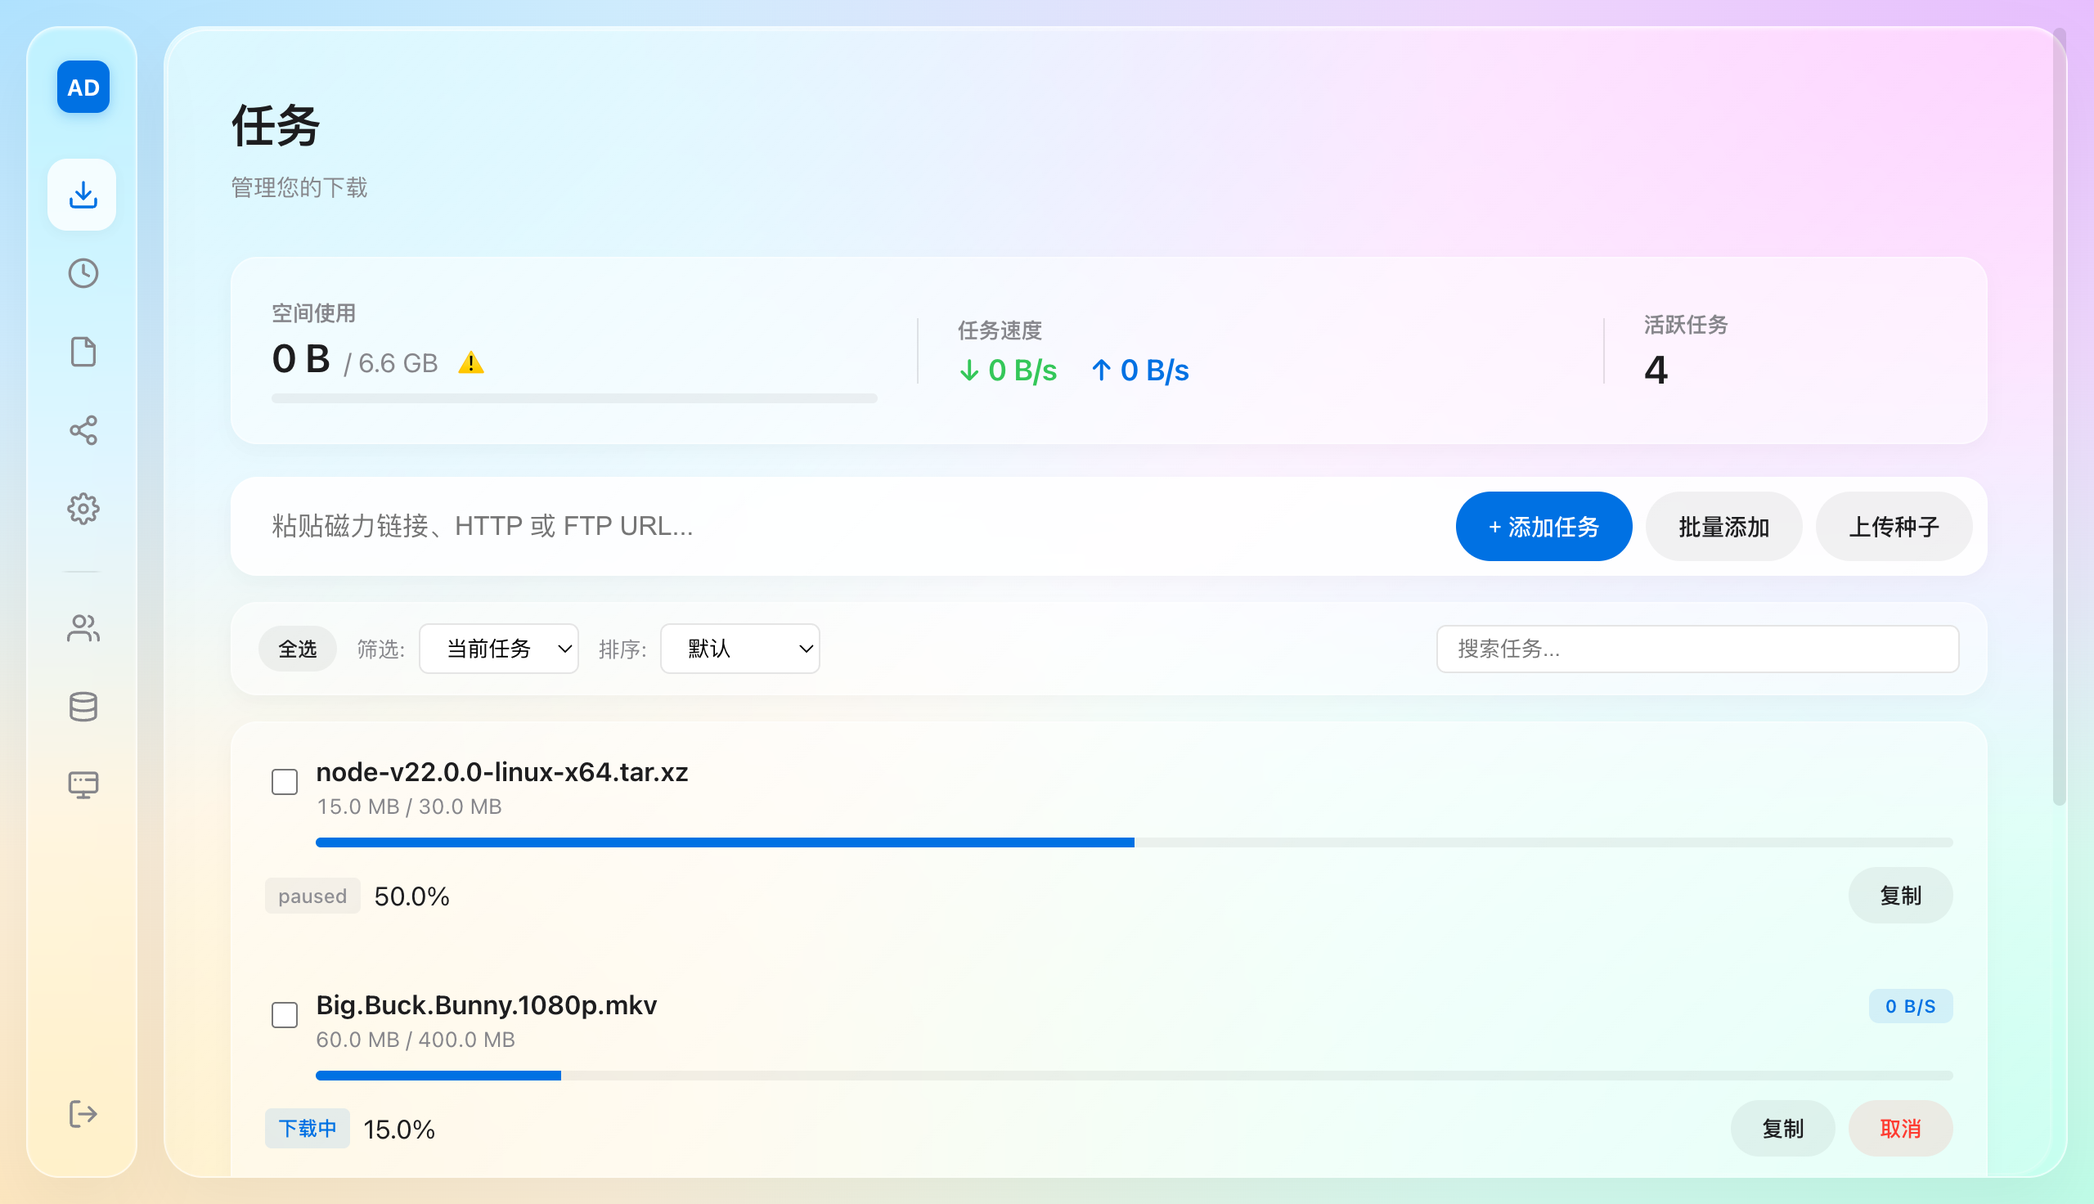
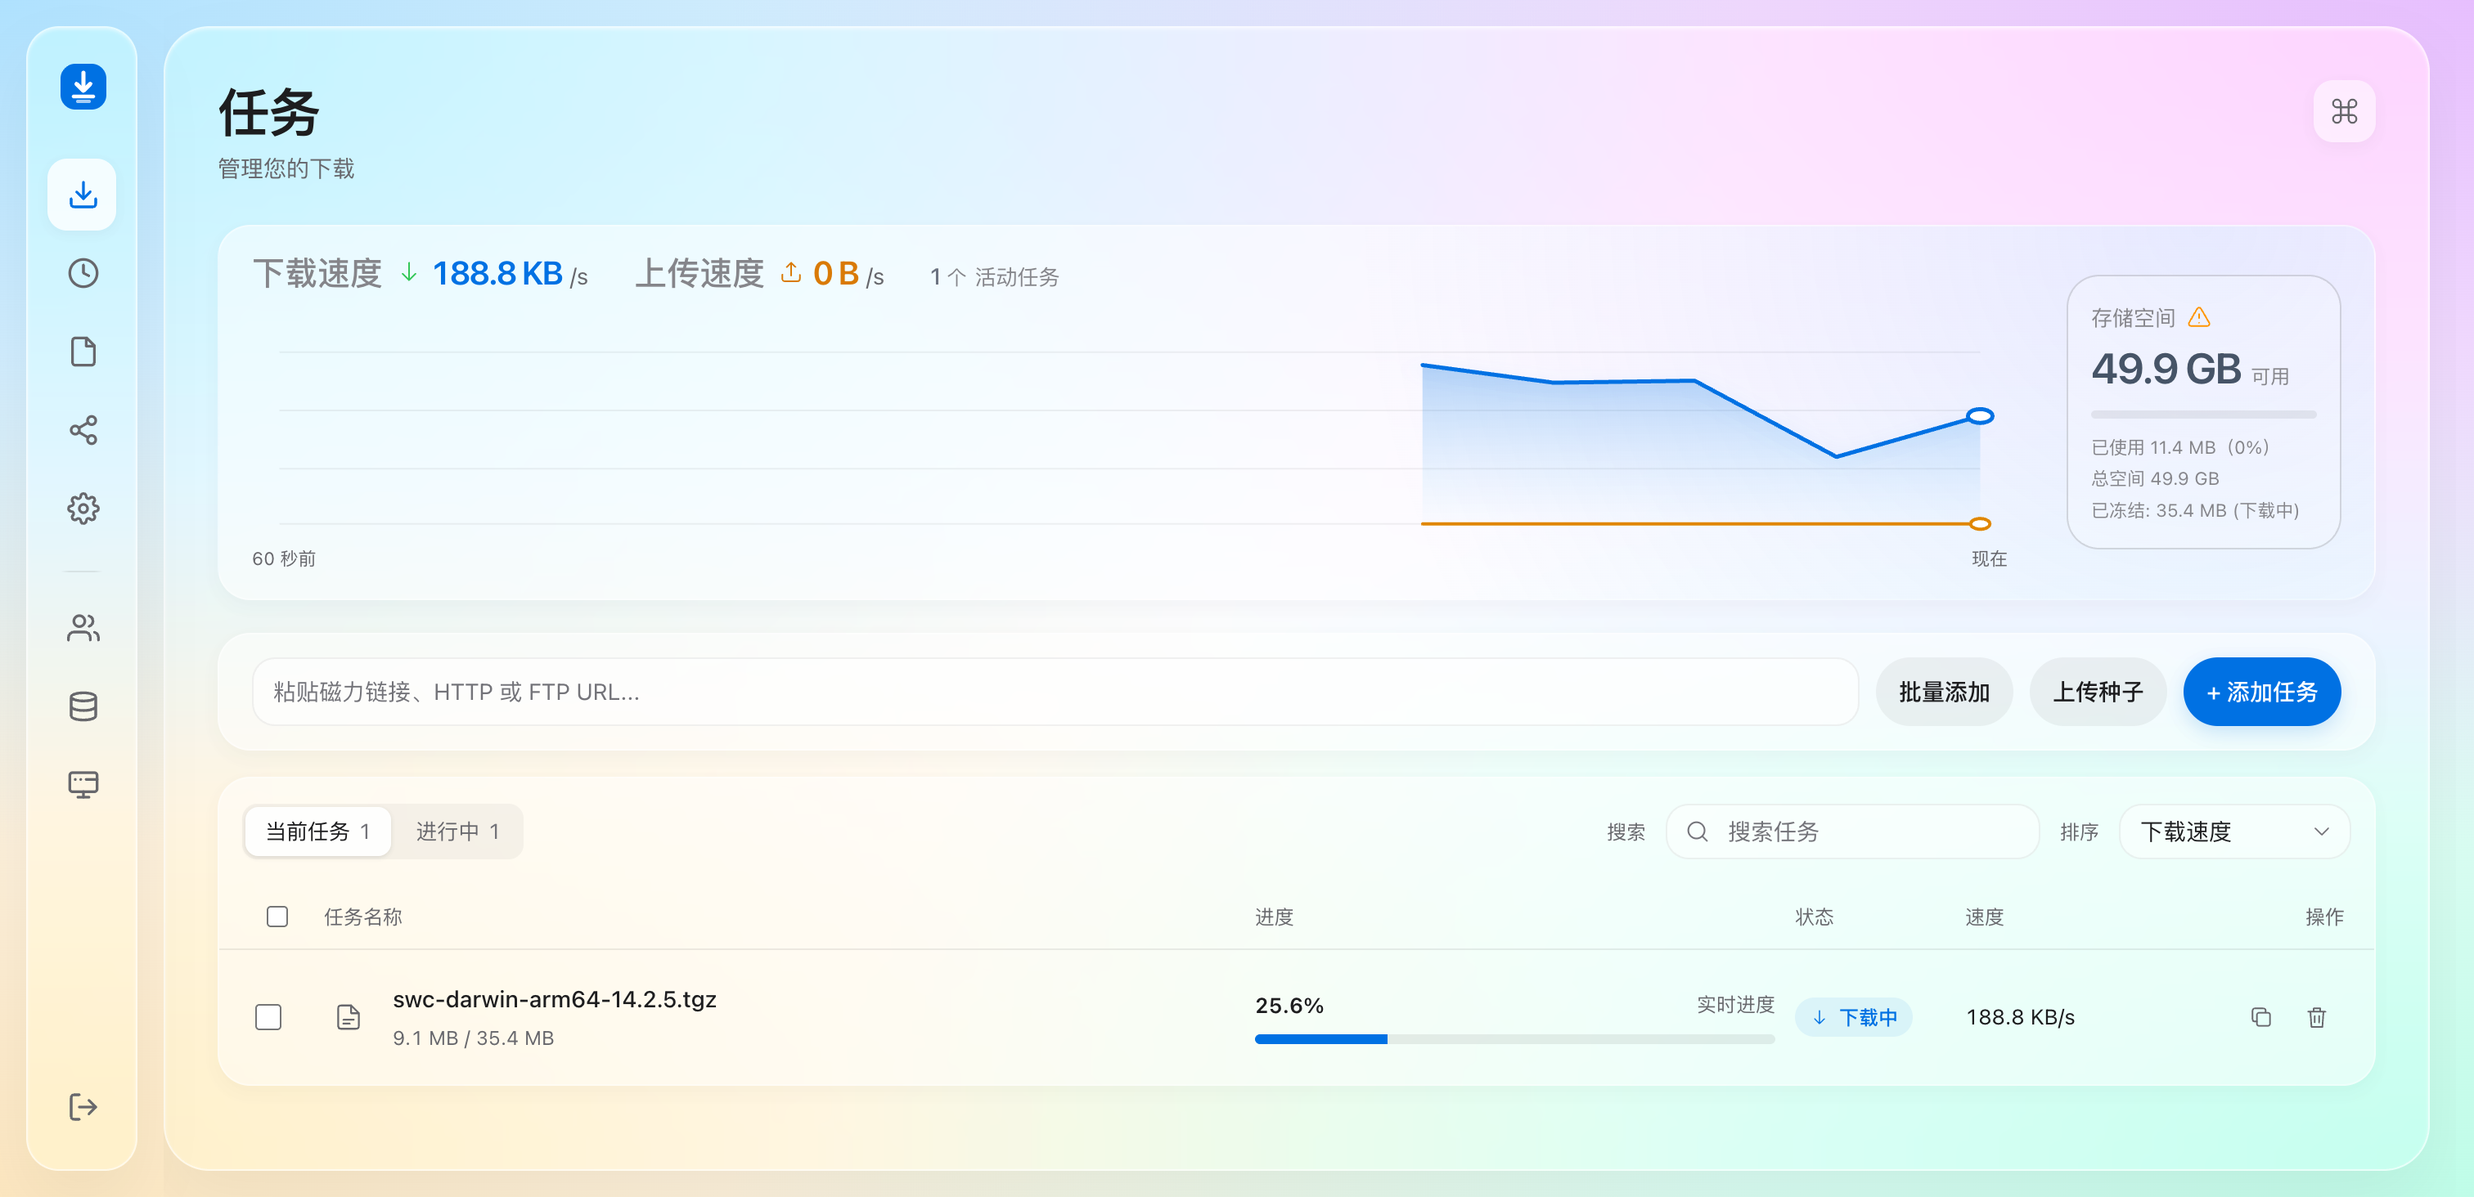
docs(readme): 更新 README 到 V2 并修正失效的配置说明
README 停留在 V1 实现，多处说明与实际代码不符，照做会起不来：
前端写作 Next.js 14 静态导出，实际是 React 18 + Vite 6；
环境变量仍写 ARIA2C_*，实际读取 ARIA2DECK_*，只有两个 RPC 跨域变量
还叫 ARIA2C_*；Compose 必需密钥只列了两个，缺
ARIA2DECK_CREDENTIAL_PEPPER，缺它会直接拒绝启动；数据库写成 app.db，
实际是 v2.db；ARIA2C_SESSION_TTL_SECONDS、ARIA2C_ARIA2_POLL_INTERVAL、
ARIA2C_DEV_RESET_ADMIN_PASSWORD 已不再被读取；本地开发的
cp backend/env.example backend/.env 目标文件也不存在。

按 backend/v2 与 frontend/v2 的实际实现重写功能亮点、技术栈、环境变量、
健康检查、数据持久化与本地开发章节，补上批量添加、种子文件树选择、
打包记录、存储扫描与修复、aria2 RPC 兼容端点等 V2 能力。功能描述逐项
对照代码核对，初稿中的「压缩级别可调」「停用账号」因前端无对应入口、
用户表无启停字段而删除。

四张界面截图替换为 V2 实际界面。

diff --git a/README.md b/README.md
@@ -6,6 +6,7 @@
 
 一套 Web 界面搞定：添加任务、管理文件、多人协作、分享下载
 
+[![Version](https://img.shields.io/badge/version-2.0.0-1e88e5.svg)](#)
 [![License: MIT](https://img.shields.io/badge/License-MIT-blue.svg)](LICENSE)
 [![Docker](https://img.shields.io/badge/Docker-ghcr.io-blue?logo=docker)](https://github.com/crmmc/aria2deck/pkgs/container/aria2deck)
 
@@ -15,19 +16,23 @@
 
 ## 功能亮点
 
-**下载管理** — 支持磁力链接、种子文件、HTTP/FTP，可批量添加。BT 种子支持选择性下载（预览文件列表，勾选需要的文件）。WebSocket 实时推送状态，任务完成/失败桌面通知提醒。
+**下载任务** — 支持磁力链接、种子文件、HTTP/HTTPS/FTP。可一次粘贴多个链接批量添加；上传种子时能预览完整文件树，勾选其中一部分下载。任务进度、速度曲线与状态变化通过 WebSocket 实时推送，完成或失败可触发浏览器桌面通知。
 
-**文件管理** — 在线浏览、重命名、下载、删除，支持全库文件名搜索。多文件打包下载（ZIP / TAR.ZST），支持目录结构浏览。
+**任务历史** — 完整保留完成、失败、取消三种终态，按状态筛选、按名称搜索、支持单条重试与批量清理，并按保留天数自动回收。
 
-**文件分享** — 生成分享链接，支持密码保护、过期时间、下载次数限制，随时可撤销。
+**文件管理** — 目录结构浏览、文件名搜索、按时间或大小排序，支持重命名、下载、删除与批量操作。多选文件可打包成 ZIP 或 TAR.ZST 下载（格式与压缩级别由管理员在系统设置里指定），打包进度在「打包记录」抽屉里追踪，随时可取消。
 
-**存储管理** — 管理员可查看全局存储用量，按用户统计空间占用，配额管理一目了然。
+**文件分享** — 生成分享链接，支持密码保护、有效期和下载次数上限，可单条撤销或一键失效全部。公开分享页免登录访问，同样支持目录浏览与逐文件下载。
 
-**多用户隔离** — 每用户独立任务列表和文件空间，管理员可分配配额。同一资源多人下载时自动复用，节省带宽。
+**存储管理** — 管理员视角按内容哈希查看全部存储对象：大小、引用数、磁盘状态、引用用户，可清除无人引用的内容，也能触发扫描与修复来对齐文件和数据库记录。
 
-**任务历史** — 完整记录下载任务的完成、取消、失败状态，支持一键重试和批量清理。
+**多用户隔离** — 每用户独立的任务列表、文件空间和存储配额，管理员可创建账号、分配配额、调整角色。同一资源被多人下载时自动复用已有内容，不重复占用磁盘和带宽。
 
-**外部客户端** — 兼容 aria2 RPC 协议，可对接 AriaNg、Motrix 等客户端，每用户独立 RPC Secret。
+**系统设置** — 基础配置、aria2 后端（连通性测试与版本查询）、打包、实时连接、Tracker 列表（支持远程源刷新）、安全与限流（各类接口限流、下载连接数，以及一键作废全部 API Token 与 RPC Secret）。
+
+**外部客户端** — 内置 aria2 JSON-RPC 兼容端点，可对接 AriaNg、Motrix 等客户端；每用户独立 RPC Secret，也支持为脚本签发 API Token。
+
+**界面** — 桌面端可折叠侧栏，移动端自动切换为底部导航；`⌘K` / `Ctrl+K` 调出快捷操作面板直接跳转功能与设置项。
 
 <br>
 
@@ -53,29 +58,34 @@
 ```bash
 git clone https://github.com/crmmc/aria2deck.git
 cd aria2deck
-export ARIA2_RPC_SECRET="$(openssl rand -hex 32)"
+export ARIA2DECK_ARIA2_RPC_SECRET="$(openssl rand -hex 32)"
 export ARIA2DECK_SHARE_JWT_SECRET="$(openssl rand -hex 32)"
+export ARIA2DECK_CREDENTIAL_PEPPER="$(openssl rand -hex 32)"
 read -rsp "初始管理员密码（至少 16 个字符）: " ARIA2DECK_INITIAL_ADMIN_PASSWORD
 export ARIA2DECK_INITIAL_ADMIN_PASSWORD
 printf '\n'
 make docker-up
 ```
 
-浏览器打开 `http://localhost:8001`，使用账号 `admin` 和上面设置的初始密码登录。已有管理员的升级部署可不设置 `ARIA2DECK_INITIAL_ADMIN_PASSWORD`。
+浏览器打开 `http://localhost:8001`，使用账号 `admin` 和上面设置的初始密码登录。已有管理员的升级部署可省略 `ARIA2DECK_INITIAL_ADMIN_PASSWORD`。
+
+以上三个 secret 中，`ARIA2DECK_ARIA2_RPC_SECRET`、`ARIA2DECK_SHARE_JWT_SECRET`、`ARIA2DECK_CREDENTIAL_PEPPER` 缺失时 Compose 会直接拒绝启动；后两个必须各自至少 32 字节且互不相同，否则后端启动即报配置错误。
 
 ### 独立 Docker 运行
 
-先按上文设置三个 secret 环境变量；已有管理员时可省略 `ARIA2DECK_INITIAL_ADMIN_PASSWORD`。
+先按上文导出变量；已有管理员时可省略 `ARIA2DECK_INITIAL_ADMIN_PASSWORD`。
 
 ```bash
 docker run -d \
   --name aria2deck \
   --network host \
-  -e ARIA2C_HOST=127.0.0.1 \
-  -e ARIA2C_ARIA2_RPC_SECRET="$ARIA2_RPC_SECRET" \
+  -e ARIA2DECK_HOST=127.0.0.1 \
+  -e ARIA2DECK_ARIA2_RPC_URL=http://127.0.0.1:6800/jsonrpc \
+  -e ARIA2DECK_ARIA2_RPC_SECRET \
   -e ARIA2DECK_SHARE_JWT_SECRET \
+  -e ARIA2DECK_CREDENTIAL_PEPPER \
   -e ARIA2DECK_INITIAL_ADMIN_PASSWORD \
-  -e ARIA2C_DOWNLOAD_DIR=/Downloads/aria2deck \
+  -e ARIA2DECK_DOWNLOAD_DIR=/Downloads/aria2deck \
   -v /your/data:/app/backend/data \
   -v /Downloads/aria2deck:/Downloads/aria2deck \
   ghcr.io/crmmc/aria2deck:<tag>
@@ -85,11 +95,11 @@ docker run -d \
 
 ## 使用流程
 
-1. 管理员使用配置的初始密码登录并修改密码
-2. 粘贴下载链接、上传种子文件（可选择性下载部分文件）或添加磁力链接
-3. 下载完成后，在文件页面浏览和管理
-4. 需要多人使用时，在用户管理创建新账号
-5. 需要分享文件时，生成分享链接发给对方
+1. 管理员使用配置的初始密码登录，按页面提示修改密码
+2. 粘贴下载链接、批量粘贴多行链接，或上传种子文件后勾选要下载的部分
+3. 下载完成后在文件页浏览、重命名、打包或直接下载
+4. 需要多人使用时，在用户管理创建账号并分配存储配额
+5. 需要对外提供文件时，生成分享链接发给对方
 
 <br>
 
@@ -97,11 +107,12 @@ docker run -d \
 
 | 层 | 技术 |
 |----|------|
-| 后端 | FastAPI + SQLAlchemy Core + aiohttp |
-| 前端 | Next.js 14 + TypeScript |
+| 后端 | Python 3.12 + FastAPI + SQLAlchemy Core + aiohttp |
+| 前端 | React 18 + Vite 6 + TypeScript |
 | 数据库 | SQLite |
-| 下载引擎 | aria2 (JSON-RPC) |
-| 部署 | Docker |
+| 下载引擎 | aria2（JSON-RPC） |
+| 打包 | zipfile / tar + zstandard |
+| 部署 | Docker + Docker Compose |
 
 <br>
 
@@ -110,29 +121,29 @@ docker run -d \
 
 | 变量 | 说明 | 默认值 |
 |------|------|--------|
-| `ARIA2C_ARIA2_RPC_URL` | aria2 RPC 地址 | `http://localhost:6800/jsonrpc` |
-| `ARIA2C_ARIA2_RPC_SECRET` | aria2 RPC 密钥 | - |
-| `ARIA2C_DOWNLOAD_DIR` | 下载文件存放目录 | `/app/backend/downloads` |
-| `ARIA2C_DATABASE_PATH` | 数据库文件路径 | `./data/app.db` |
-| `ARIA2C_SESSION_TTL_SECONDS` | 登录会话有效期（秒） | `43200` |
-| `ARIA2C_ARIA2_POLL_INTERVAL` | aria2 状态轮询间隔（秒） | `2.0` |
-| `ARIA2DECK_SHARE_JWT_SECRET` | 分享链接签名密钥，非 debug 模式必填 | - |
-| `ARIA2DECK_CREDENTIAL_PEPPER` | API Token 与用户 RPC 密钥摘要 pepper，非 debug 模式必填，至少 32 字节 | - |
+| `ARIA2DECK_ARIA2_RPC_URL` | aria2 RPC 地址 | `http://127.0.0.1:6800/jsonrpc` |
+| `ARIA2DECK_ARIA2_RPC_SECRET` | aria2 RPC 密钥 | - |
+| `ARIA2DECK_DATA_DIR` | 数据根目录 | `~/.local/share/aria2deck` |
+| `ARIA2DECK_DATABASE_PATH` | 数据库文件路径 | `<数据根目录>/v2.db` |
+| `ARIA2DECK_DOWNLOAD_DIR` | 下载文件存放目录 | `<数据根目录>/downloads` |
+| `ARIA2DECK_STATIC_DIR` | 前端静态文件目录 | `static` |
+| `ARIA2DECK_INTERNAL_BASE_URL` | 交给 aria2 的内部回源地址前缀，HTTP 下载经此网关做校验 | `http://127.0.0.1:8001` |
+| `ARIA2DECK_SHARE_JWT_SECRET` | 分享链接与短时访问令牌签名密钥，非调试模式必填，至少 32 字节 | - |
+| `ARIA2DECK_CREDENTIAL_PEPPER` | API Token 与用户 RPC Secret 摘要 pepper，非调试模式必填，至少 32 字节且不能与分享密钥相同 | - |
 | `ARIA2DECK_INITIAL_ADMIN_PASSWORD` | 首次创建管理员时使用，至少 16 个字符 | - |
-| `ARIA2C_RPC_ALLOW_ALL_ORIGINS` | 允许任意来源跨域访问 `/aria2/jsonrpc`（AriaNg、Motrix 等第三方前端部署在其他域名时需要开启）；RPC 密钥认证仍必需，且响应不带 Cookie 凭据，其余 API 不受影响 | `false` |
-| `ARIA2C_CORS_ORIGINS` | 额外允许的 CORS 域名，逗号分隔 | - |
-| `ARIA2C_ALLOW_NULL_ORIGIN` | 是否允许 `Origin: null`，仅受控客户端需要时设为 `true` | `false` |
-| `ARIA2C_DEBUG` | 调试模式（Cookie 关闭 Secure、SQL echo 等），生产保持 `false` | `false` |
-| `ARIA2C_DEV_RESET_ADMIN_PASSWORD` | 开发模式启动时按 `ARIA2DECK_INITIAL_ADMIN_PASSWORD` 重置 admin 密码 | `false` |
-| `ARIA2DECK_INTERNAL_BASE_URL` | 服务自身回源地址（内部请求用；HTTP 时必须指向 loopback、内网 IP 或单标签服务名） | `http://127.0.0.1:8001` |
+| `ARIA2DECK_DEBUG` | 调试模式：允许不配分享/凭证密钥、Cookie 关闭 Secure、首次启动不强制初始管理员密码；生产必须保持 `false` | `false` |
+| `ARIA2C_RPC_ALLOW_ALL_ORIGINS` | 允许任意来源跨域访问 `/aria2/jsonrpc`（AriaNg、Motrix 等前端部署在其他域名时需要）；RPC 密钥认证仍必需，响应不带 Cookie 凭据 | `false` |
+| `ARIA2C_RPC_ALLOWED_ORIGINS` | 额外允许的 RPC 跨域来源，逗号分隔精确匹配 | - |
+
+容器内还接受 `ARIA2DECK_HOST` 与 `ARIA2DECK_PORT`，分别控制监听地址与端口，默认 `0.0.0.0:8001`。
 
 </details>
 
 <details>
 <summary><strong>健康检查</strong></summary>
 
-- `GET /api/health` 与 `GET /api/health/live` 只表示服务进程存活，不检查依赖，保留原端点兼容性。
-- `GET /api/health/ready` 检查 SQLite、下载目录和同步、监听、删除、打包 worker；容器 health check 使用此端点。
+- `GET /api/health` 与 `GET /api/health/live` 只表示服务进程存活，不检查依赖。
+- `GET /api/health/ready` 检查 SQLite、下载目录和同步、监听、打包、删除等后台 worker；容器 health check 使用此端点，任一 worker 异常时返回 503。
 
 </details>
 
@@ -143,55 +154,68 @@ Docker 部署时需要挂载两个目录：
 
 | 容器路径 | 说明 |
 |---------|------|
-| `/app/backend/data` | 数据库文件，**必须备份** |
-| `/app/backend/downloads` | 下载文件存放 |
+| `/app/backend/data` | 数据库文件（`v2.db`），**必须备份** |
+| `/app/backend/downloads` | 下载文件与打包产物 |
+
+同一数据库文件只允许一个后端实例，启动时会获取 `<数据库路径>.lock` 实例锁，重复启动会直接失败。
 
 </details>
 
 <details>
 <summary><strong>安全建议</strong></summary>
 
-- 使用强随机且**互不相同**的 `ARIA2C_ARIA2_RPC_SECRET`、`ARIA2DECK_SHARE_JWT_SECRET` 和 `ARIA2DECK_CREDENTIAL_PEPPER`。`SHARE_JWT_SECRET` 只签分享/内部短时令牌；`CREDENTIAL_PEPPER` 只保护 API Token 与用户 RPC Secret 摘要，二者不要共用同一值。
+- 三个 secret 使用强随机且**互不相同**的值。`ARIA2DECK_SHARE_JWT_SECRET` 只签分享与内部短时令牌；`ARIA2DECK_CREDENTIAL_PEPPER` 只保护 API Token 与用户 RPC Secret 摘要，二者共用会被配置校验拒绝。
 - 轮换 `ARIA2DECK_CREDENTIAL_PEPPER` 后，旧 API Token / RPC Secret 摘要无法再验证。正确做法：
   1. 备份数据库
   2. 配置新的 `ARIA2DECK_SHARE_JWT_SECRET` 与 `ARIA2DECK_CREDENTIAL_PEPPER`（各至少 32 字节、互不相同）
-  3. 启动服务后，管理员在「系统设置 → 凭证安全」点击「作废全部 API Token / RPC Secret」
+  3. 启动服务后，管理员在「系统设置 → 安全与限流」点击作废全部 API Token / RPC Secret
   4. 通知用户重新签发 API Token / RPC Secret
-  5. 分享访问 JWT 最长 30 分钟，轮换 secret 后旧 JWT 自动失效
-- v6 升级会启用 SQLite `secure_delete`、checkpoint truncate 和受磁盘空间约束的 VACUUM 来清理可达的旧凭证页；应用无法清除已有备份、快照、复制副本、块设备历史或已经导出的 WAL 文件，升级前后的备份应按含敏感凭证处理。
-- Compose 默认仅在 `127.0.0.1:8001` 提供 Web 服务，且不会向宿主机发布 aria2 RPC 6800
-- 远程访问必须使用提供 TLS 的反向代理；客户端 PBKDF2 结果仍是可重放的密码等价物，不能替代传输加密
-- 定期备份 `data/` 目录
+- Compose 默认仅在 `127.0.0.1:8001` 提供 Web 服务，且不向宿主机发布 aria2 RPC 6800 端口。
+- 远程访问必须使用提供 TLS 的反向代理；客户端 PBKDF2 结果仍是可重放的密码等价物，不能替代传输加密。
+- 定期备份 `data/` 目录。
 
 </details>
 
 <details>
 <summary><strong>本地开发</strong></summary>
 
+依赖 `uv`（Python）与 `bun`（前端）：
+
 ```bash
-# 安装依赖
-make install
-
-# 配置环境变量
-cp backend/env.example backend/.env
-
-# 三个终端分别启动
-make dev-aria2    # aria2 后端
-read -rsp "开发管理员密码（至少 16 个字符）: " ARIA2DECK_INITIAL_ADMIN_PASSWORD
-export ARIA2DECK_INITIAL_ADMIN_PASSWORD
-make dev-back     # API 后端（开发模式，按配置重置 admin 密码）
-make dev-front    # 前端开发服务器（http://localhost:3000）
+make install          # 安装前后端依赖
 ```
 
-开发态页面路径统一使用无后缀路由，例如 `http://localhost:3000/tasks`、`/files`、`/shares`、`/history`、`/storage`、`/settings`。
+代码位于 `backend/v2`（后端）与 `frontend/v2`（前端），`v1` 目录是旧版实现，不参与构建。
+
+三个终端分别启动：
+
+```bash
+# 终端 1：本地 aria2。两边的 RPC secret 必须是同一个值
+export ARIA2DECK_ARIA2_RPC_SECRET="$(openssl rand -hex 32)"
+make dev-aria2
+
+# 终端 2：后端（调试模式，跳过 secret 强制校验）
+export ARIA2DECK_ARIA2_RPC_SECRET="<与终端 1 相同>"
+read -rsp "开发管理员密码（至少 16 个字符）: " ARIA2DECK_INITIAL_ADMIN_PASSWORD
+export ARIA2DECK_INITIAL_ADMIN_PASSWORD
+make dev-back
+
+# 终端 3：前端
+make dev-front
+```
+
+后端在 `8001` 提供完整服务（含前端构建产物）。`make dev-front` 起 Vite 开发服务器（`http://localhost:3000`），它会把 `/api` 与 `/ws` 代理到 `8001` 的后端，改前端代码即时热更新；要看构建后的完整界面请访问 `http://localhost:8001`。
+
+本地运行产生的数据默认落在 `~/.local/share/aria2deck`（`v2.db` 与 `downloads/`），需要放在项目内时用 `ARIA2DECK_DATA_DIR` 指定。
 
 常用命令与测试：
 
 ```bash
 make run                      # 构建前端并在 8001 端口启动完整服务
 make build                    # 前端改动后重新构建并部署静态文件到后端
-cd backend && uv run pytest   # 后端测试（后端改动后必跑）
-cd frontend && bun run test   # 前端测试（前端改动后必跑）
+make check                    # lint + 类型检查 + 测试
+cd backend/v2 && uv run pytest   # 后端测试
+cd frontend/v2 && bun run test   # 前端测试
 ```
 
 </details>
